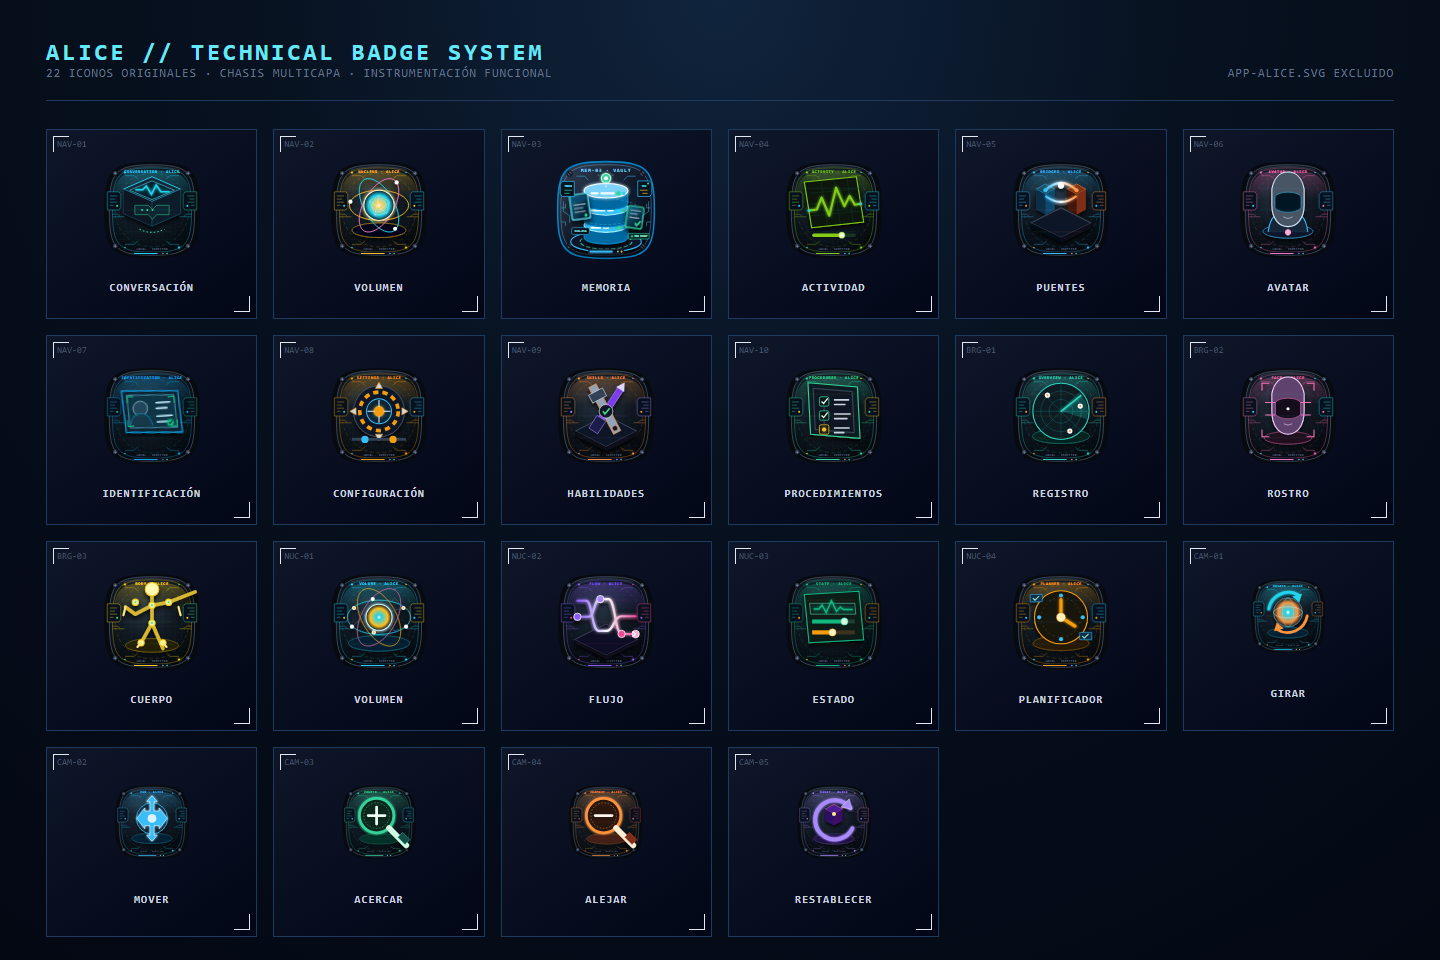
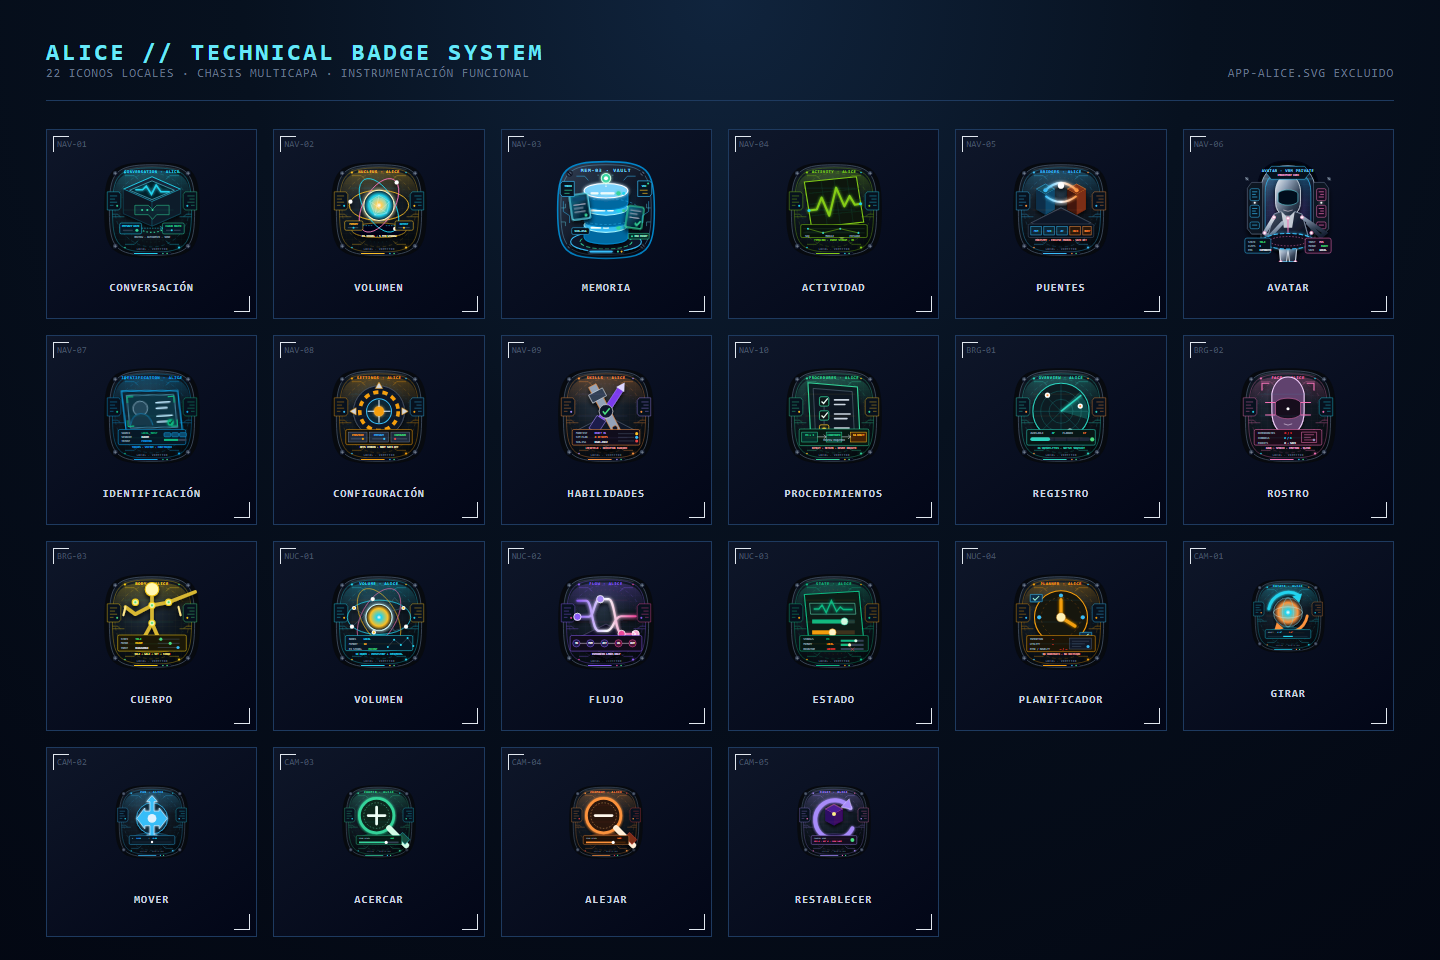
Eleva iconos con escenas semanticas

diff --git a/docs/testing/COGNITIVE_SCREENS_AND_ICON_SYSTEM_REPORT_2026-08-12.md b/docs/testing/COGNITIVE_SCREENS_AND_ICON_SYSTEM_REPORT_2026-08-12.md
@@ -17,7 +17,9 @@ Las cuatro reutilizan el snapshot nativo R3 mediante `src/Page/nucleus-shared.ts
 
 ## Iconos
 
-Veintiún SVG funcionales se reescribieron desde cero en una familia técnica de `200 × 200`; `nav-memory.svg` fue aportado por el propietario, auditado como SVG autónomo y preservado como fuente manual. Se revisó la colección de Cyrcetech para identificar su gramática visual real: squircle de chasis, capas concéntricas, retículas, anillos discontinuos, tornillos ranurados, LEDs, plataformas isométricas, caras laterales, sombras y reflejos. Ningún recurso de `E:\proyect2026\Cyrcetech\apps\web\icons` fue importado o enlazado. La fuente reproducible de los otros 21 iconos se conserva en `scripts/generate-alice-icon-system.mjs`.
+Veinte SVG funcionales se generan desde cero en una familia técnica de `200 × 200`; `nav-memory.svg` fue aportado por el propietario, auditado como SVG autónomo y preservado como fuente manual, mientras `nav-avatar.svg` se diseñó manualmente como un portal vertical distinto del resto. Se revisó la colección de Cyrcetech para identificar su gramática visual real: capas de chasis, retículas, anillos discontinuos, tornillos, LEDs, plataformas isométricas, caras laterales, sombras y reflejos. Ningún recurso de `E:\proyect2026\Cyrcetech\apps\web\icons` fue importado o enlazado. La fuente reproducible de los otros 20 iconos se conserva en `scripts/generate-alice-icon-system.mjs`.
+
+La segunda revisión semántica sustituyó los adornos genéricos por componentes de cada pantalla: privacidad y salida a nube en Conversación; timeline R3 en Actividad; registro pasivo y `SAFE OFF` en Puentes; tokens, fuente e intención en Identificación; manifiesto, simulación y SHA-256 en Habilidades; evidencia R3 y conversión a borrador R4 en Procedimientos; y señales verificables o bloqueadas en las cuatro vistas cognitivas. Avatar representa VRM privado, rig humanoide, clips, estados motores y DualSense.
 
[1 lines of base64/hex data omitted]
 
@@ -32,4 +34,4 @@ Veintiún SVG funcionales se reescribieron desde cero en una familia técnica de
 | Rust | 158 pruebas aprobadas; 9 pruebas de hardware/datos reales ignoradas explícitamente |
 | Clippy | todos los targets y features, cero advertencias |
 
-La revisión de pantallas se conserva en `artifacts/alice-nucleus-separated-preview.png` y la lámina de iconos en `artifacts/alice-icon-system-cyrcetech-reference.png`. El bundle principal quedó en 564,64 kB minificado; la advertencia independiente del módulo del avatar permanece fuera del alcance de este cambio.
+La revisión de pantallas se conserva en `artifacts/alice-nucleus-separated-preview.png` y la lámina de iconos en `artifacts/alice-icon-system-cyrcetech-reference.png`. El bundle principal quedó en 580,07 kB minificado después de incorporar telemetría semántica y animación accesible; deberá reducirse posteriormente mediante carga diferida por pantalla. La advertencia independiente del módulo 3D del avatar permanece fuera del alcance de este cambio.

diff --git a/README.md b/README.md
@@ -72,7 +72,7 @@ La evidencia completa está en [el informe de validación R1](docs/testing/R1_CA
 
 ### Sistema de insignias técnicas Alice
 
-La navegación y los controles visuales usan 22 SVG locales de alta definición con estética de insignias técnicas: chasis redondeado multicapa, retícula, anillos HUD, tornillos ranurados, plataformas isométricas, reflejos, brillo controlado y acentos propios. El lenguaje visual se estudió auditando la colección de Cyrcetech, sin importar sus archivos ni sus figuras. Veintiún iconos se generan desde cero con `npm run icons:generate`; `nav-memory.svg` es una pieza local aportada por el propietario, validada y preservada como fuente manual. El catálogo cubre diez destinos de navegación, tres vistas de puentes, cuatro áreas cognitivas independientes y cinco controles de cámara. Las pruebas verifican catálogo, accesibilidad, lienzo, unicidad y ausencia de recursos externos o contenido ejecutable.
+La navegación y los controles visuales usan 22 SVG locales de alta definición con escenas técnicas propias: revisión de privacidad, señales R3, registro de capacidades, VRM y locomoción, tokens, manifiestos, evidencia de procedimientos, canales corporales y controles de cámara. El lenguaje visual se estudió auditando la colección de Cyrcetech, sin importar sus archivos ni sus figuras. Veinte iconos se generan desde cero con `npm run icons:generate`; `nav-memory.svg`, aportado por el propietario, y el portal vertical `nav-avatar.svg` se validan y preservan como fuentes manuales. Avatar evita deliberadamente el chasis redondeado de la familia para representar encarnación, esqueleto VRM, articulaciones, animaciones y control PS5. Las pruebas verifican catálogo, accesibilidad, lienzo, unicidad y ausencia de recursos externos o contenido ejecutable.
 
 El emblema de la aplicación no forma parte de este rediseño: [`icons/app-alice.svg`](icons/app-alice.svg) y el conjunto de iconos de Tauri permanecen intactos. La decisión vigente y la verificación están documentadas en [ADR-P-064](docs/decisions/ADR-P-064-pantallas-cognitivas-e-iconos-cyrcetech.md). [ADR-P-063](docs/decisions/ADR-P-063-sistema-cyber-glyph-v2.md) conserva el antecedente reemplazado.
 

diff --git a/docs/decisions/ADR-P-064-pantallas-cognitivas-e-iconos-cyrcetech.md b/docs/decisions/ADR-P-064-pantallas-cognitivas-e-iconos-cyrcetech.md
@@ -13,7 +13,7 @@ El panel Núcleo agrupaba cuatro responsabilidades distintas en un selector inte
 - Cada área cognitiva tiene ahora una pantalla y una ruta propias dentro de `src/Page/`: `Volumen.tsx`, `Flujo.tsx`, `Estado.tsx` y `Planificador.tsx`. La clave de navegación `nucleo` se conserva únicamente como alias compatible del volumen neuronal.
 - `nucleus-shared.tsx` concentra únicamente la lectura pasiva del snapshot R3 y el marco común; no inventa actividad ni decisiones.
 - Las cuatro rutas permanecen en el espacio `cognitive` y son accesibles desde la navegación principal.
-- Veintiún SVG funcionales se generan desde cero mediante `scripts/generate-alice-icon-system.mjs`; `nav-memory.svg` se preserva como fuente manual aportada por el propietario. Los 22 adoptan un lienzo de `200 × 200`, squircle multicapa, retícula, anillos HUD, tornillos ranurados, plataformas isométricas, sombras, reflejos y acentos de color por función.
+- Veinte SVG funcionales se generan desde cero mediante `scripts/generate-alice-icon-system.mjs`; `nav-memory.svg` se preserva como fuente manual aportada por el propietario y `nav-avatar.svg` como composición manual propia. Los 22 usan un lienzo de `200 × 200` y escenas semánticas basadas en el contenido real de sus pantallas. Avatar se separa deliberadamente de la familia squircle mediante un portal vertical de encarnación con figura VRM completa, articulaciones, escáner y telemetría motora.
 - La referencia de Cyrcetech se limita a principios visuales observables. No se copian, importan ni distribuyen sus archivos.
 - `icons/app-alice.svg` y `src-tauri/icons/` permanecen fuera del alcance.
 
